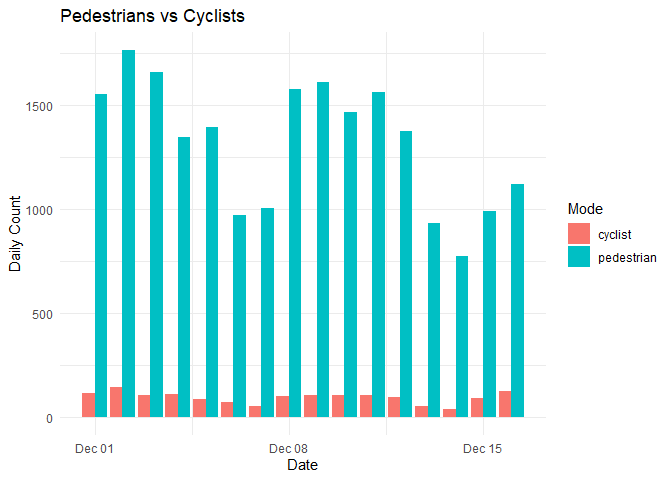
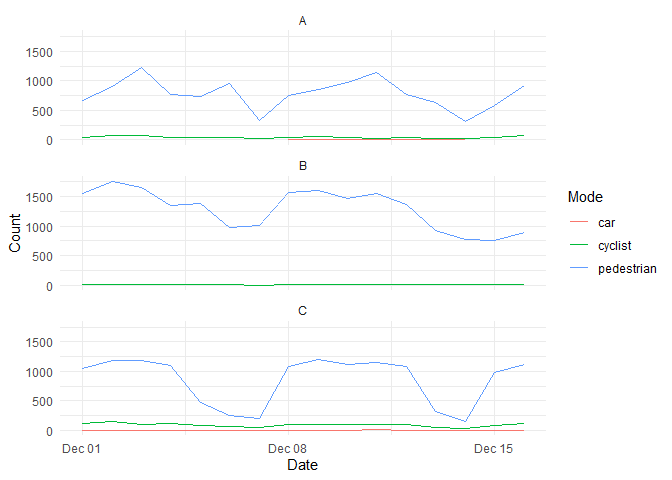
Update with better mode plot

diff --git a/README.md b/README.md
@@ -121,17 +121,17 @@ names(counts)
 
 # Plot pedestrians vs cyclists
 counts |>
-  filter(class %in% c("pedestrian", "cyclist")) |>
+  filter(class %in% c("pedestrian", "cyclist", "car")) |>
   mutate(sensor = id_lookup[id]) |>
   group_by(sensor, class, day = as.Date(from)) |>
   summarise(count = sum(count, na.rm = TRUE), .groups = "drop") |>
-  ggplot(aes(x = day, y = count, fill = class)) +
-  geom_col(position = "dodge") +
+  ggplot(aes(x = day, y = count, color = class)) +
+  geom_line() +
+  facet_wrap(~sensor, ncol = 1) +
   labs(
-    title = "Pedestrians vs Cyclists",
     x = "Date",
-    y = "Daily Count",
-    fill = "Mode"
+    y = "Count",
+    color = "Mode"
   ) +
   theme_minimal()
 ```
@@ -145,29 +145,6 @@ Note: this will fail if the sensors don’t have speed recording enabled:
 ``` r
 # Get speeds (function accepts vector of IDs)
 speeds_df <- get_countline_speed(sampled_ids, from = from_time, to = to_time)
-```
-
-``` r
-# Summary statistics
-summary_stats <- counts_df |>
-  group_by(sensor) |>
-  summarise(
-    observations = n(),
-    total_count = sum(count, na.rm = TRUE)
-  )
-summary_stats
-
-# Plot traffic counts over time
-ggplot(counts_df, aes(x = from, y = count, color = sensor)) +
-  geom_line() +
-  labs(
-    title = "Traffic Counts (Dec 2025)",
-    x = "Time",
-    y = "Total Vehicles",
-    color = "Sensor"
-  ) +
-  theme_minimal() +
-  theme(legend.position = "bottom")
 ```
 
 ## Next Steps
